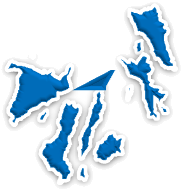
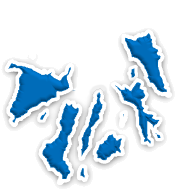
Finished Luzon region

Changed region(s): [[0.4121, 0.0263, 0.989, 0.7895]]

diff --git a/WebContent/resources/js/webapp.js b/WebContent/resources/js/webapp.js
@@ -730,6 +730,8 @@
 				$(".groupShawBlvdPasig").colorbox({rel:'groupShawBlvdPasig', transition:"none", width:"75%", height:"90%"});
 				$(".groupAngelLinaoMalate").colorbox({rel:'groupAngelLinaoMalate', transition:"none", width:"75%", height:"90%"});
 				$(".groupTandangKutyoRizal").colorbox({rel:'groupTandangKutyoRizal', transition:"none", width:"75%", height:"90%"});
+				$(".groupBonotLegazpi").colorbox({rel:'groupBonotLegazpi', transition:"none", width:"75%", height:"90%"});
+				$(".groupMalhacanBulacan").colorbox({rel:'groupMalhacanBulacan', transition:"none", width:"75%", height:"90%"});
 				
 				//visayas
 				$(".groupCebu1").colorbox({rel:'groupCebu1', transition:'none', width:'75%', height:'90%'});

diff --git a/WebContent/resources/css/luzon_css.css b/WebContent/resources/css/luzon_css.css
@@ -95,6 +95,16 @@ div.fixed#tandangkutyorizal {
 	margin-top: 215px;
 }
 
+div.fixed#bonotlegazpi {
+	margin-left: 385px;
+	margin-top: 290px;
+}
+
+div.fixed#malhacanbulacan {
+	margin-left: 185px;
+	margin-top: 240px;
+}
+
 div.projectTitle#isabela {
 	margin-left: 300px;
 	margin-top: 60px;
@@ -178,4 +188,14 @@ div.projectTitle#angellinaomalate {
 div.projectTitle#tandangkutyorizal {
 	margin-left: 450px;
 	margin-top: 315px;
+}
+
+div.projectTitle#bonotlegazpi {
+	margin-left: 450px;
+	margin-top: 335px;
+}
+
+div.projectTitle#malhacanbulacan {
+	margin-left: 450px;
+	margin-top: 355px;
 }
